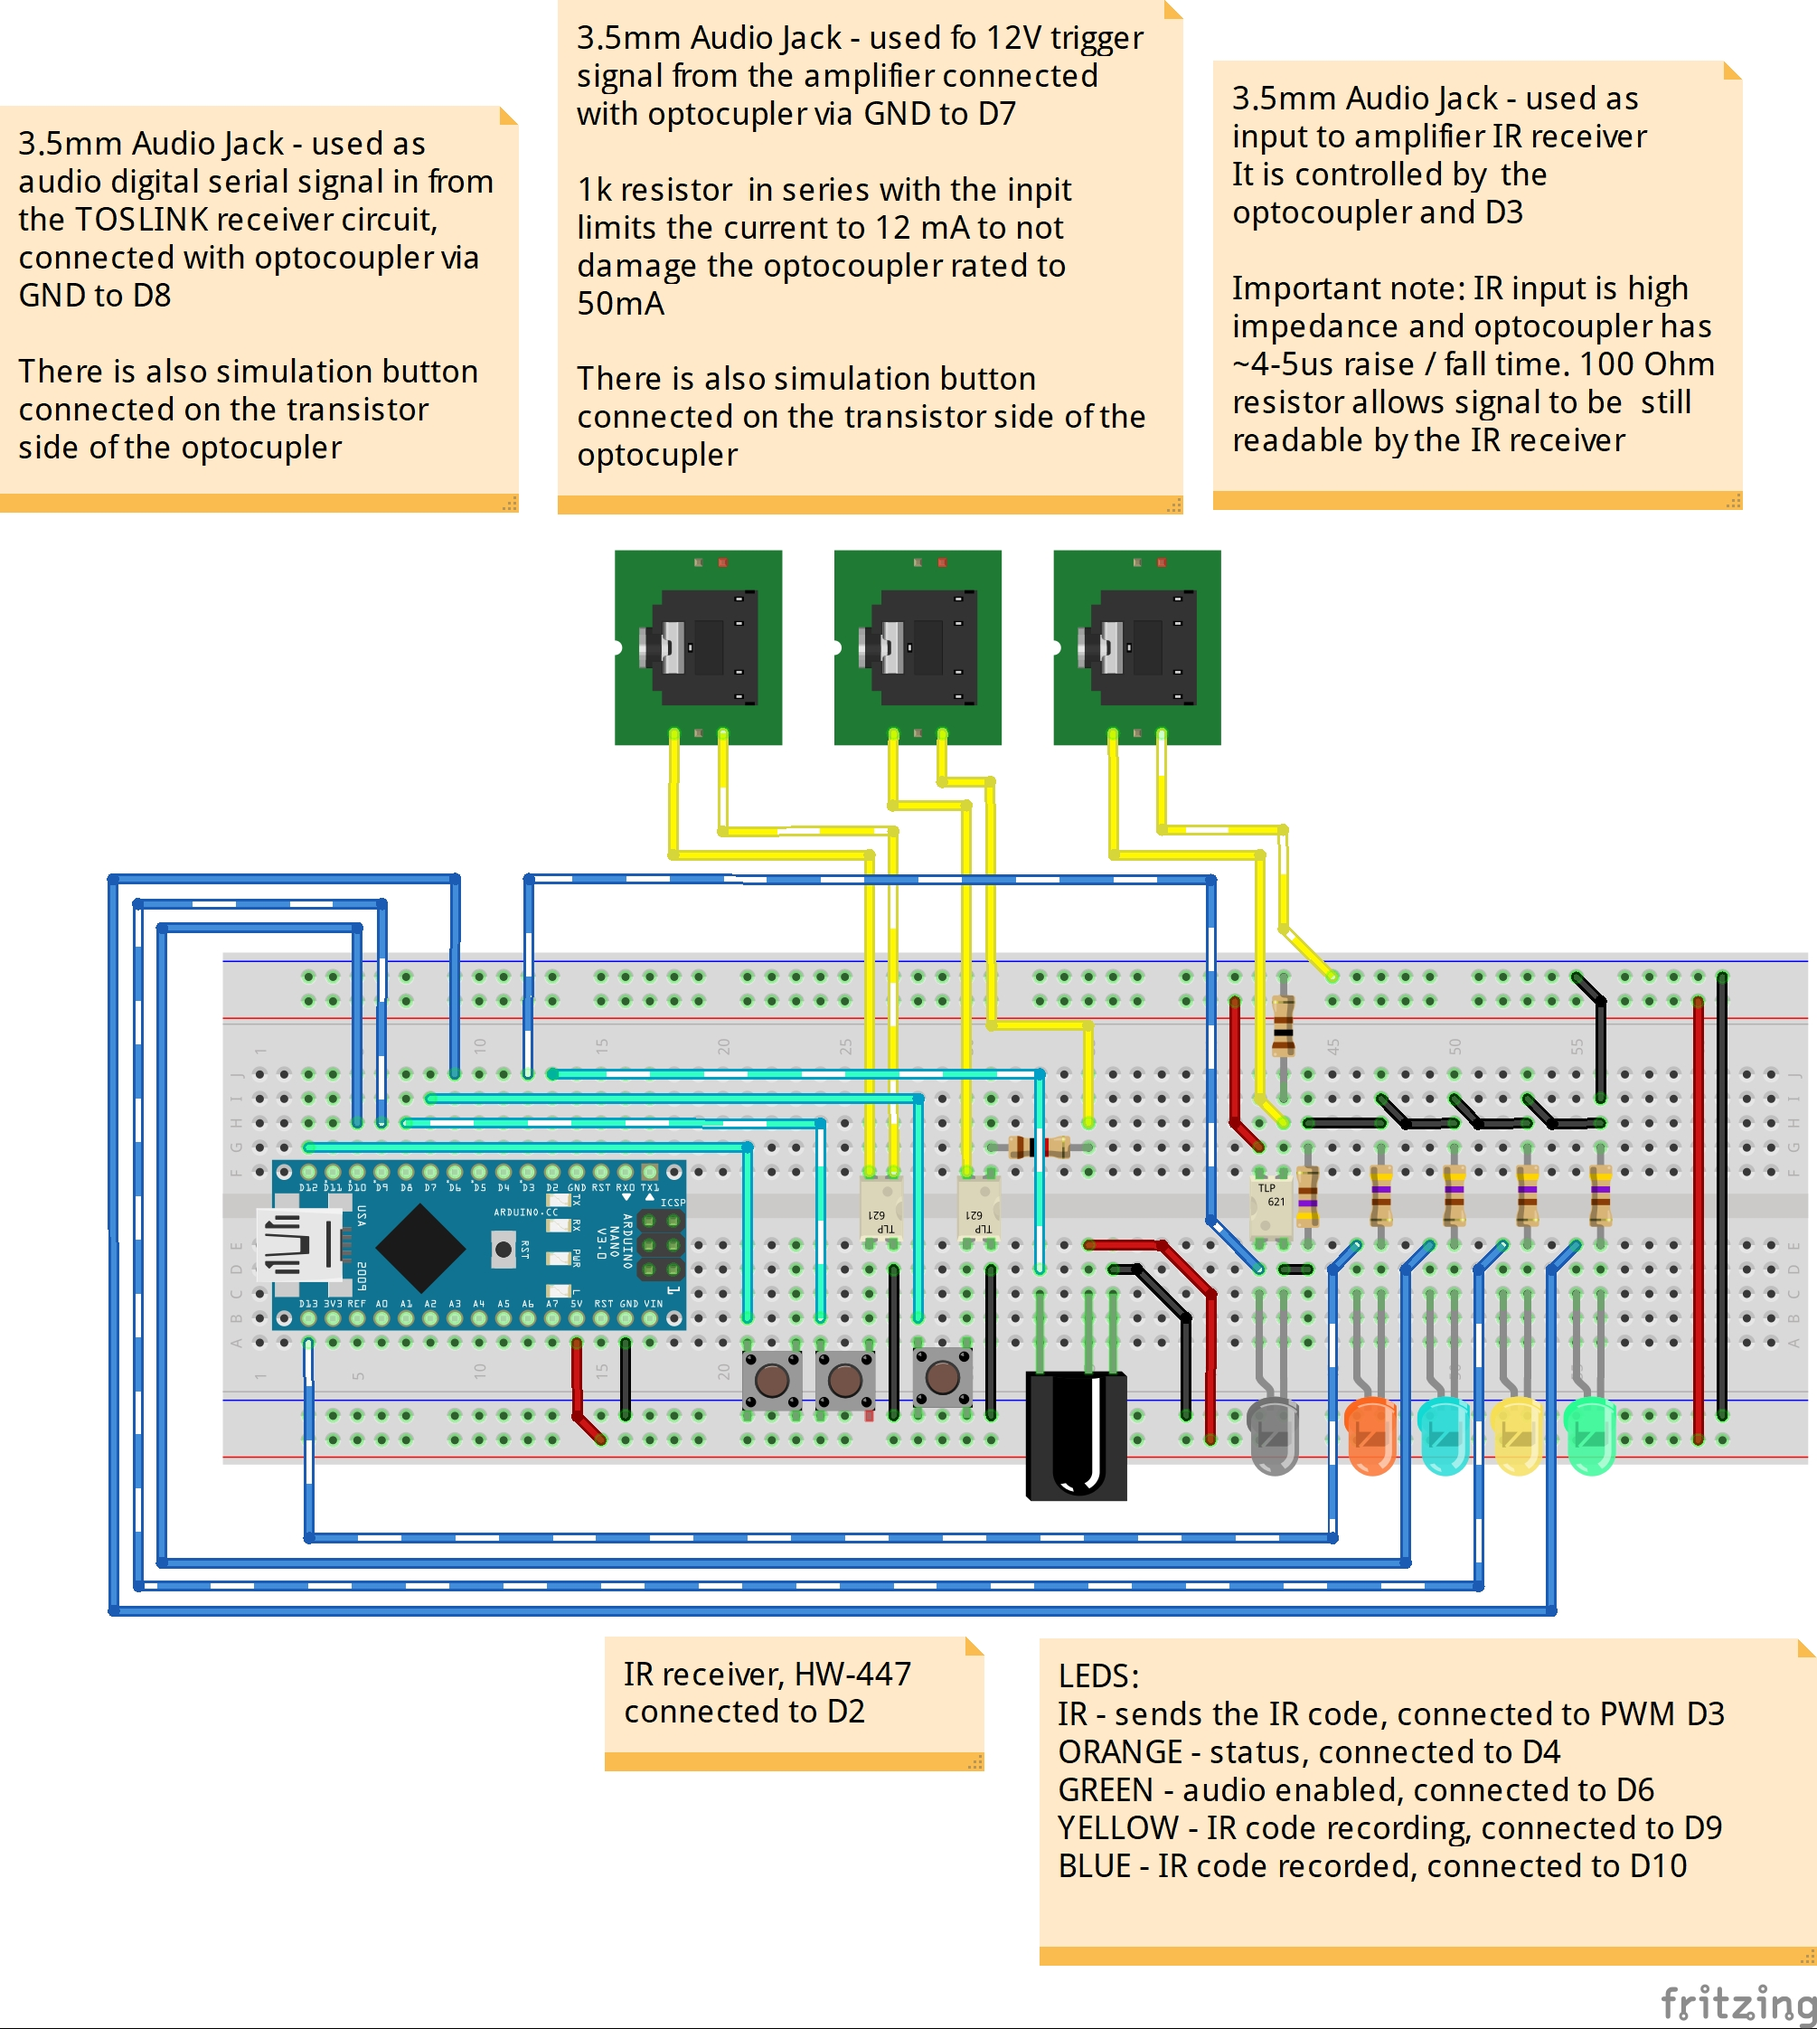
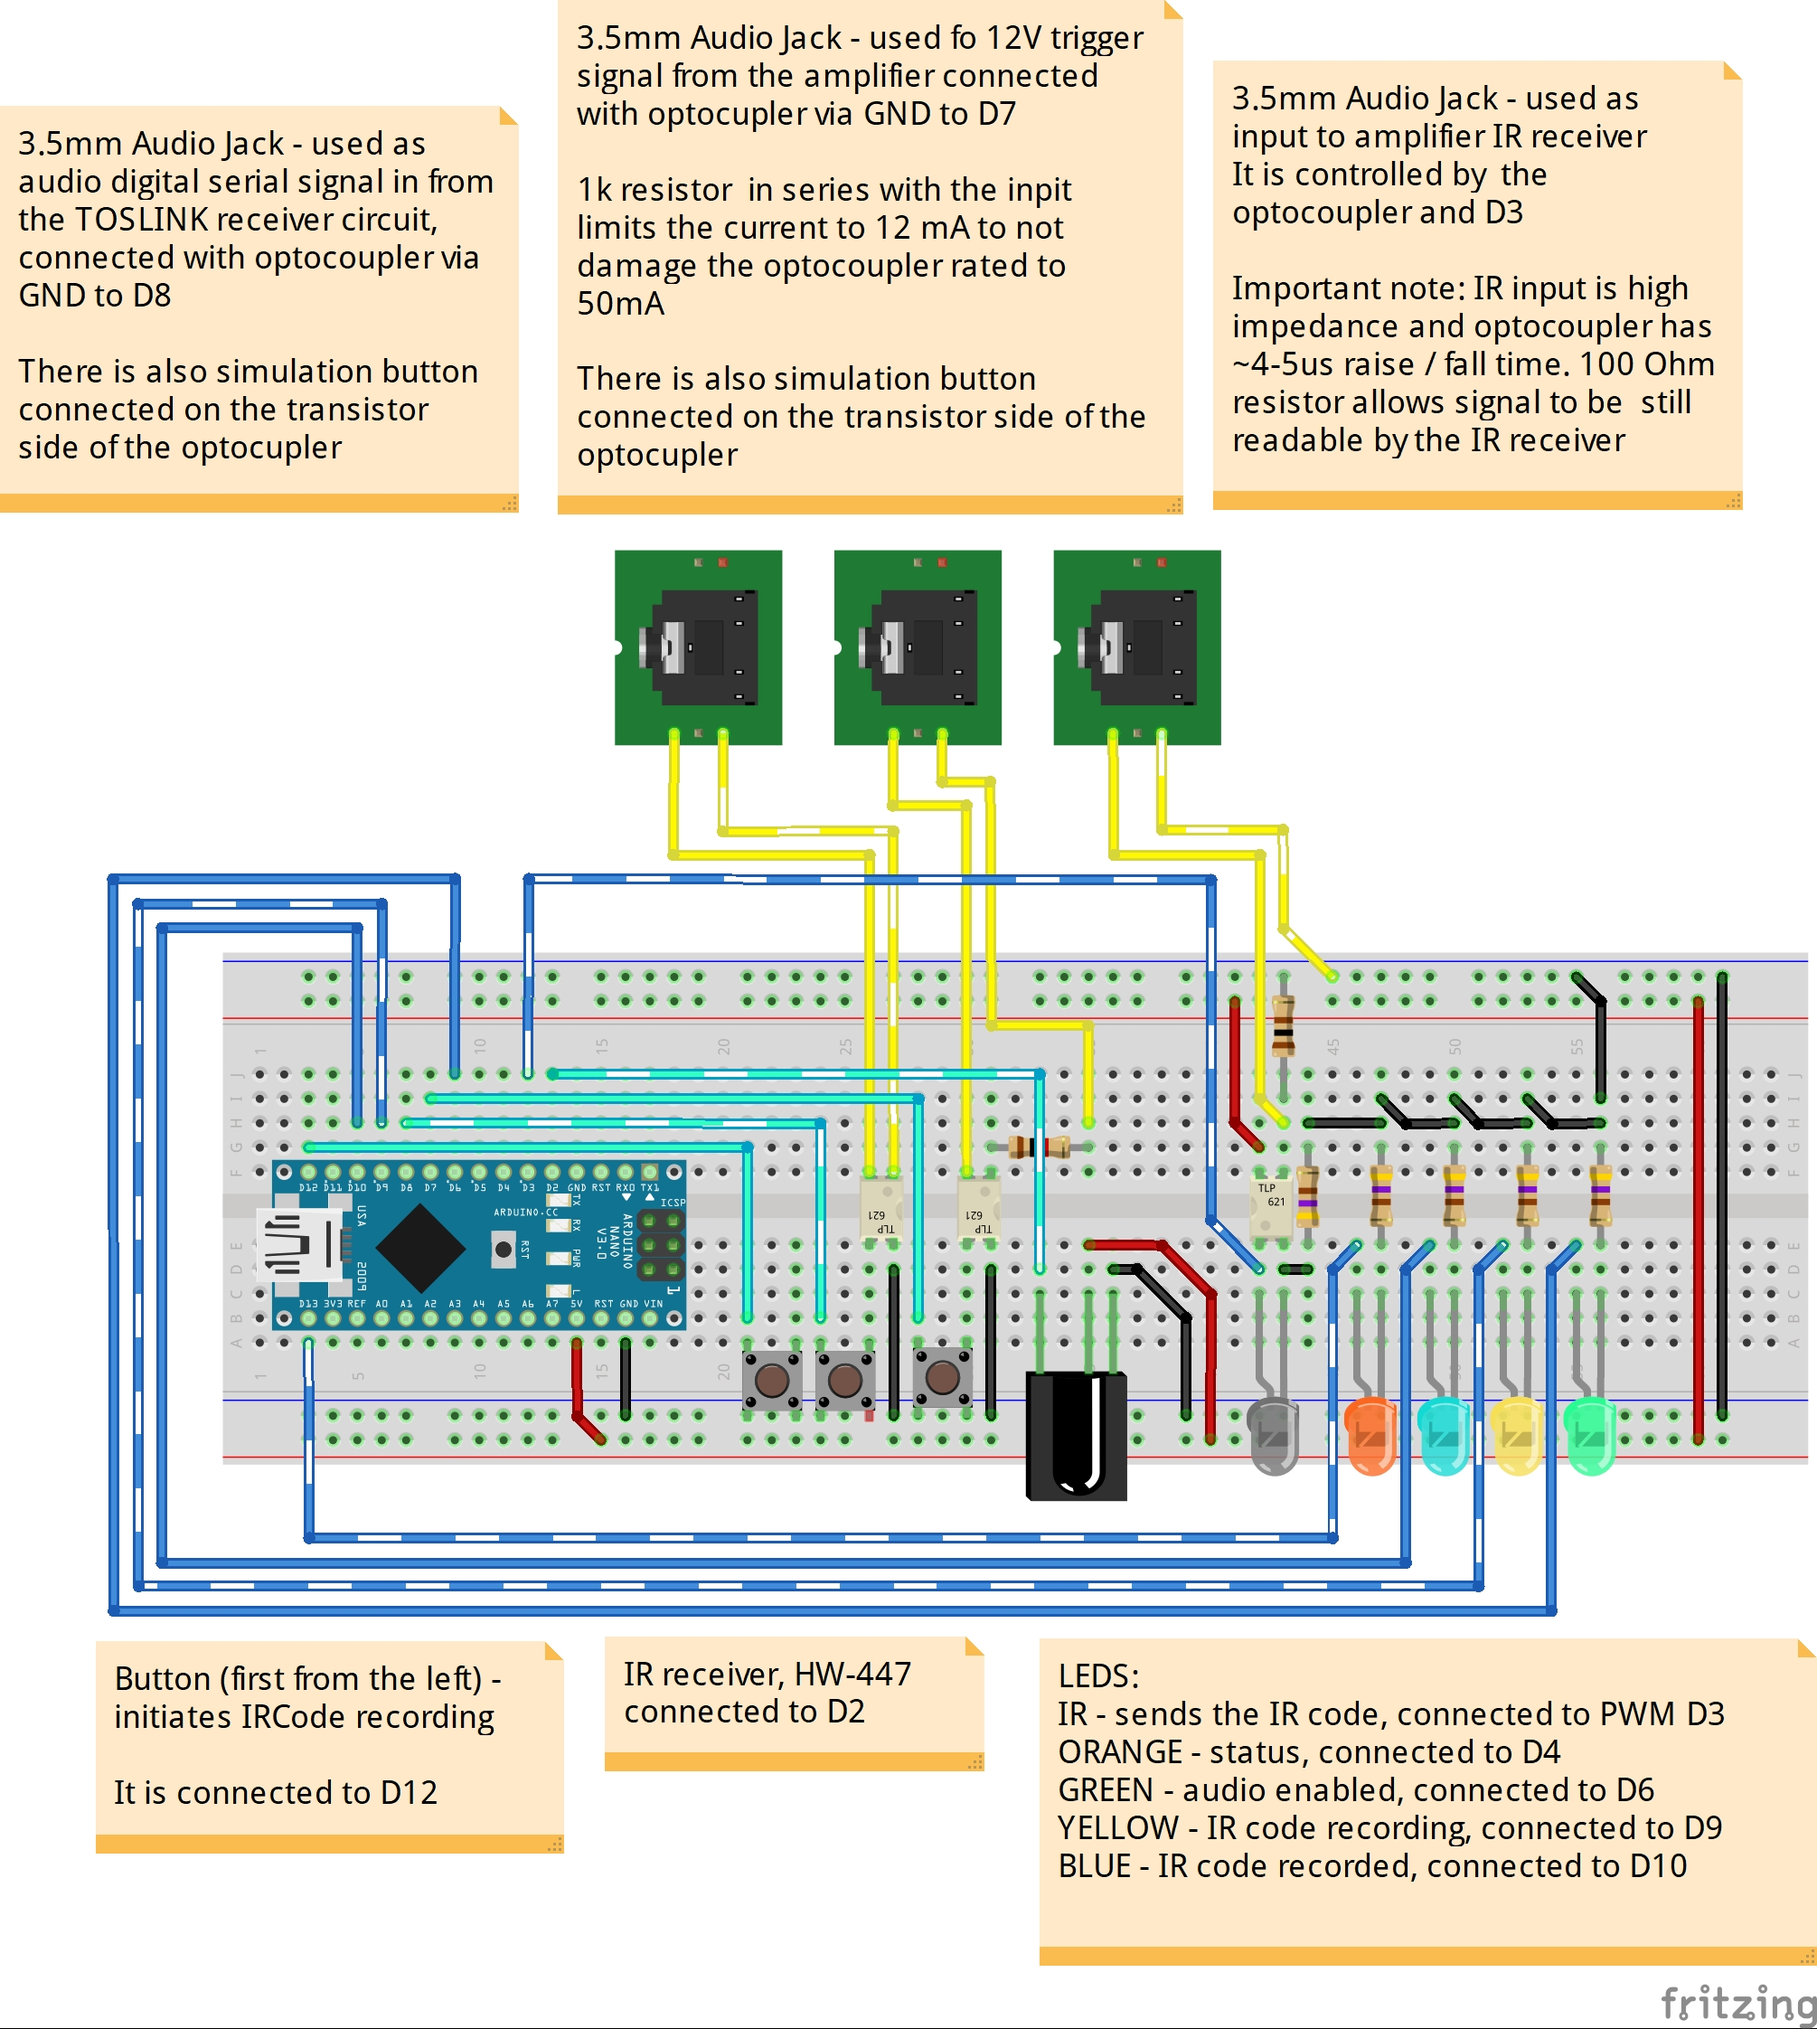
updated documentation

Changed region(s): [[0.0308, 0.8111, 0.3085, 0.9358]]

diff --git a/README.md b/README.md
@@ -3,6 +3,24 @@ Audio detector that listens for an audio signal with the SPDIF TOSLINK or COAX r
 
 All external circuits are galvanically isolated with optoisolators, including the audio digital serial signal.
 
+
+## Installation and Use ##
+System was designed to read audio digital signal from any decoder circuit that outputs digital serial audio. Such as WM8805 (popular in the TOSLINK - Analog Audio converters)
+
+* Circuit connects to TOSLINK serial output (i.e. serial output from WM8805 receiver pin 16) via optocoupler on pin D8
+* IR phototransistor on pin D2
+* IR repeater on pin D3
+
+### Initial Setup ###
+When powered, system indicates if any pre-recorded IR codes were found. If not, you'd need to press "IRCODE RECORD" button (pin D12). It will initiate 2-stage recording, first AUDIO_START code and AUDIO_STOP code. System gives you the recording feedback with the RECORD LED: blinks twice for the first code and once for the second code. When codes were recorded - STORED LED will be lit. Once codes were recorded and stored - the system should start up every time with STORED LED lit.
+
+### Typical Use ###
+System enters audio monitoring state when initiated. When audio was detected, system sends AUDIO START code to turn the audio system on and monitors for 12V audio trigger. If trigger was not detected in 10s, system assumes that audio is enabled. 
+
+* Next, if 12V trigger is available, system waits for the line to go LOW and sends AUDIO STOP code and starts monitoring for the audio again back in the initial state
+* If 12V trigger is not available, system monitors audio signal and if audio signal is not available for 10min, sends AUDIO STOP and goes back to initial state 
+
+
 ## Arduino ##
 The board used is the Arduino Nano and the libraries:
 * State Machine was implemented with *arduino_fsm* state machine library https://github.com/jonblack/arduino-fsm
